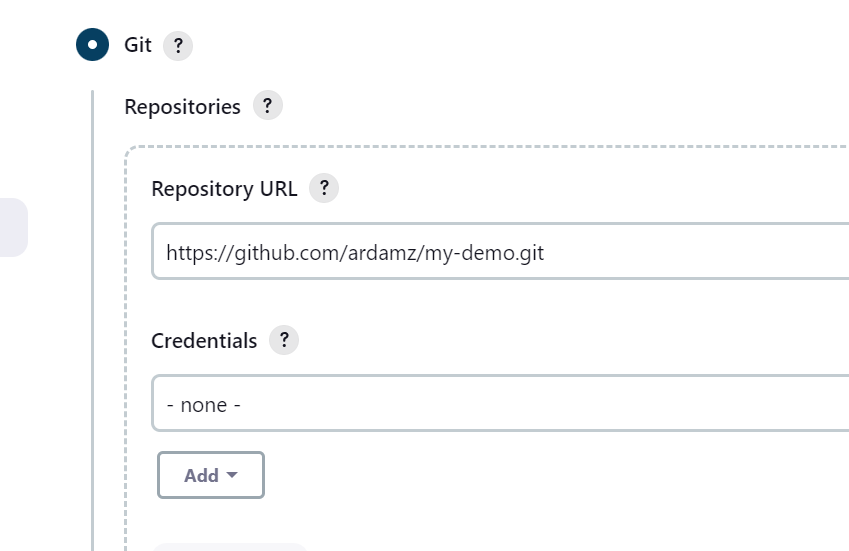
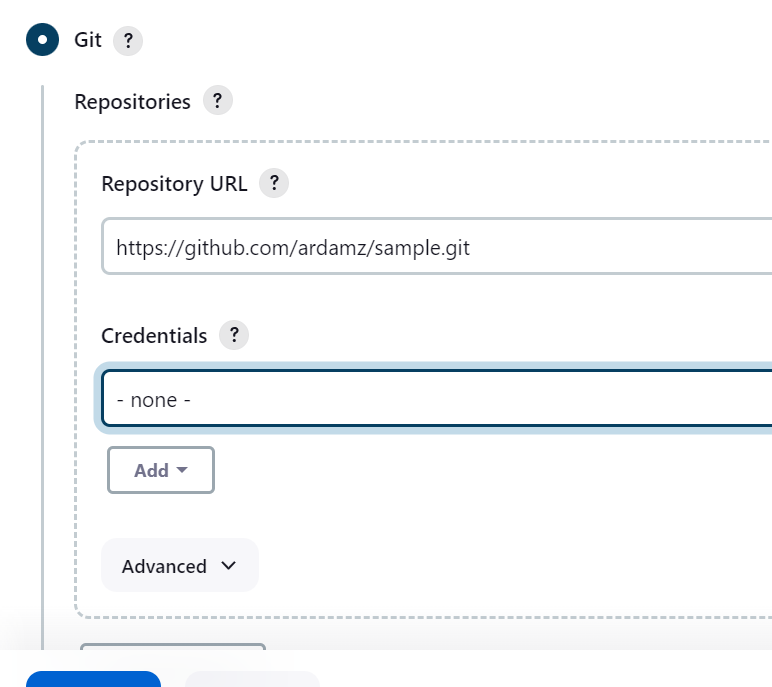
more project 9 updates

Changed region(s): [[0.0311, 0.0309, 1.0, 1.0], [0.0311, 0.1234, 0.0622, 0.9256], [0.2798, 0.1234, 0.3109, 0.1543]]

diff --git a/Project9.md b/Project9.md
@@ -81,5 +81,21 @@ then i installed plugins, created an admin user and was done with the inital set
 
 ![Screenshot](https://github.com/ardamz/my-demo/blob/main/project9/ConfigureSSH.png)
 
+3. After saving the SSH configuration, I went to my configuration page for my project Dashboard>project9>Configuration, and added `Send build artifacts over SSH` from the list of post-build action. I inserted `**` in the place of Source files to iindicate all files.
 
+4. Saved the new post-build action and went to make an update in my git repo, and the build was initiated in my jenkins enviroment automatically. I kept getting a `Permission denied` Error
+
+![Screenshot](https://github.com/ardamz/my-demo/blob/main/project9/Errors.png)
+
+![Screenshot](https://github.com/ardamz/my-demo/blob/main/project9/Build8.png)
+
+5. I modified the permission and ownership of the /mnt/apps directory
+
+![Screenshot](https://github.com/ardamz/my-demo/blob/main/project9/Permission.png)
+
+6. After modifing the permissions I was able to get a succesful build after a push action from my git repo. I also verified this successful build by checking the /var/www folders of my my web servers (as they are mounted on the /mnt/apps dircetory of the NFS Server).
+
+![Screenshot](https://github.com/ardamz/my-demo/blob/main/project9/Build9.png)
+
+![Screenshot](https://github.com/ardamz/my-demo/blob/main/project9/CopyVerified.png)
 
